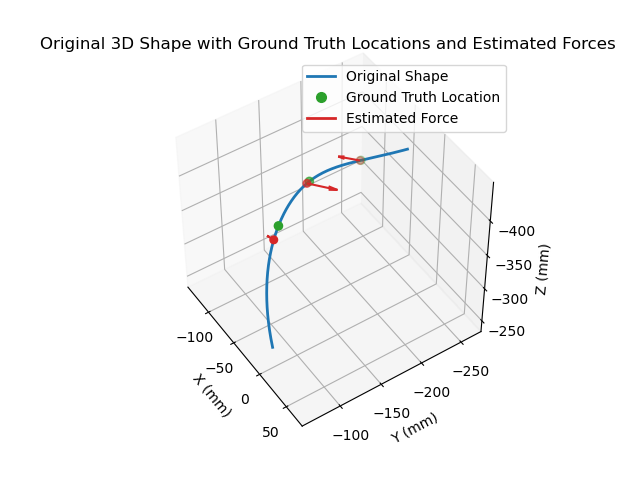
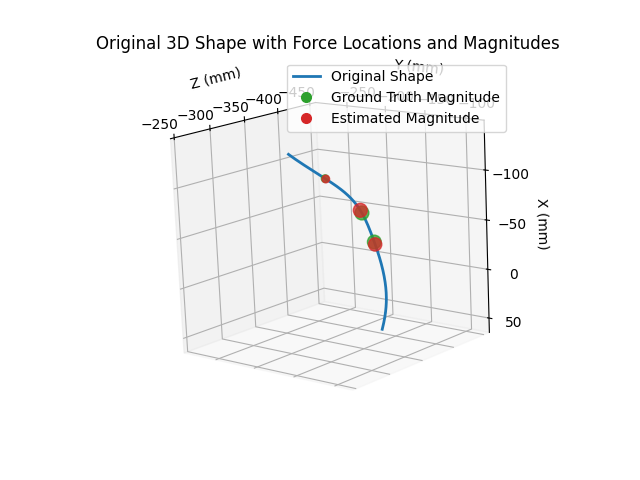
fix force vidualization issue

diff --git a/estimation_multi_force.py b/estimation_multi_force.py
@@ -208,17 +208,20 @@ def _plot_results(
     curvature_axis.set_title("Experimental vs. Model Curvatures")
 
     original_shape = load_experiment_shape(dataset_dir, dataset)
-    ground_truth_locations, _ground_truth_force_vectors = load_experiment_force_vectors(dataset_dir, dataset)
+    ground_truth_locations, ground_truth_force_vectors = load_experiment_force_vectors(dataset_dir, dataset)
     ground_truth_locations = ground_truth_locations + bias
 
     estimated = np.asarray(estimated_forces, dtype=float).reshape(-1, 3)
     estimated = estimated[np.argsort(estimated[:, 0])]
     estimated_force_locations = estimated[:, 0]
     estimated_force_vectors = np.column_stack((estimated[:, 1], estimated[:, 2], np.zeros(len(estimated))))
+    estimated_force_magnitudes = np.linalg.norm(estimated_force_vectors, axis=1)
+    ground_truth_force_magnitudes = np.linalg.norm(ground_truth_force_vectors, axis=1)
 
     ground_truth_force_points = _interpolate_shape_points(original_shape, ground_truth_locations)
     estimated_force_points = _interpolate_shape_points(original_shape, estimated_force_locations)
-    force_scale = _compute_force_scale(original_shape, estimated_force_vectors)
+    ground_truth_marker_sizes = _compute_marker_sizes(ground_truth_force_magnitudes)
+    estimated_marker_sizes = _compute_marker_sizes(estimated_force_magnitudes)
 
     shape_figure = plt.figure()
     shape_axis = shape_figure.add_subplot(111, projection="3d")
@@ -229,40 +232,32 @@ def _plot_results(
         color="tab:blue",
         linewidth=2.0,
     )
-    # Force sensor and FBG center frames are not calibrated to each other,
-    # so ground-truth force directions are intentionally not plotted.
+    # Force directions are intentionally not plotted. The force sensor and FBG
+    # center frames are not calibrated, and the estimated directions are also
+    # not sufficiently aligned. Marker size encodes force magnitude instead.
     if ground_truth_force_points.size:
         shape_axis.scatter(
             ground_truth_force_points[:, 0],
             ground_truth_force_points[:, 1],
             ground_truth_force_points[:, 2],
             color="tab:green",
-            s=35,
+            s=ground_truth_marker_sizes,
+            alpha=0.75,
         )
     if estimated_force_points.size:
-        shape_axis.quiver(
-            estimated_force_points[:, 0],
-            estimated_force_points[:, 1],
-            estimated_force_points[:, 2],
-            estimated_force_vectors[:, 0],
-            estimated_force_vectors[:, 1],
-            estimated_force_vectors[:, 2],
-            length=force_scale,
-            normalize=False,
-            color="tab:red",
-        )
         shape_axis.scatter(
             estimated_force_points[:, 0],
             estimated_force_points[:, 1],
             estimated_force_points[:, 2],
             color="tab:red",
-            s=30,
+            s=estimated_marker_sizes,
+            alpha=0.75,
         )
 
     shape_axis.set_xlabel("X (mm)")
     shape_axis.set_ylabel("Y (mm)")
     shape_axis.set_zlabel("Z (mm)")
-    shape_axis.set_title("Original 3D Shape with Ground Truth Locations and Estimated Forces")
+    shape_axis.set_title("Original 3D Shape with Force Locations and Magnitudes")
     shape_axis.legend(
         handles=[
             Line2D([0], [0], color="tab:blue", linewidth=2.0, label="Original Shape"),
@@ -273,9 +268,17 @@ def _plot_results(
                 linestyle="None",
                 color="tab:green",
                 markersize=7,
-                label="Ground Truth Location",
+                label="Ground Truth Magnitude",
             ),
-            Line2D([0], [0], color="tab:red", linewidth=2.0, label="Estimated Force"),
+            Line2D(
+                [0],
+                [0],
+                marker="o",
+                linestyle="None",
+                color="tab:red",
+                markersize=7,
+                label="Estimated Magnitude",
+            ),
         ]
     )
     _set_axes_equal_3d(
@@ -283,7 +286,6 @@ def _plot_results(
         original_shape,
         ground_truth_force_points,
         estimated_force_points,
-        estimated_force_points + estimated_force_vectors * force_scale,
     )
     plt.show()
 
@@ -305,21 +307,22 @@ def _interpolate_shape_points(shape: np.ndarray, positions: np.ndarray) -> np.nd
     )
 
 
-def _compute_force_scale(shape: np.ndarray, *force_vectors: np.ndarray) -> float:
-    shape = np.asarray(shape, dtype=float)
-    valid_vectors = [np.asarray(v, dtype=float).reshape(-1, 3) for v in force_vectors if np.asarray(v).size]
-    if not valid_vectors:
-        return 1.0
+def _compute_marker_sizes(
+    magnitudes: np.ndarray,
+    min_size: float = 30.0,
+    max_size: float = 100.0,
+) -> np.ndarray:
+    magnitudes = np.asarray(magnitudes, dtype=float).reshape(-1)
+    if magnitudes.size == 0:
+        return np.zeros(0, dtype=float)
 
-    stacked_vectors = np.vstack(valid_vectors)
-    max_force_norm = float(np.max(np.linalg.norm(stacked_vectors, axis=1)))
-    if max_force_norm <= 0.0:
-        return 1.0
+    max_magnitude = float(np.max(magnitudes))
+    min_magnitude = float(np.min(magnitudes))
+    if max_magnitude <= 0.0 or np.isclose(max_magnitude, min_magnitude):
+        return np.full(magnitudes.shape, (min_size + max_size) / 2.0, dtype=float)
 
-    shape_extent = float(np.max(np.ptp(shape, axis=0)))
-    if shape_extent <= 0.0:
-        shape_extent = 1.0
-    return 0.15 * shape_extent / max_force_norm
+    normalized = (magnitudes - min_magnitude) / (max_magnitude - min_magnitude)
+    return min_size + normalized * (max_size - min_size)
 
 
 def _set_axes_equal_3d(ax, *point_sets: np.ndarray) -> None:

diff --git a/README.md b/README.md
@@ -46,10 +46,10 @@ Case prefixes follow the original experiment naming:
 - If `--plot` is enabled, the script shows:
   - curvature comparison
   - the original measured 3D shape
-  - ground-truth force locations as markers. **Ground-truth force direction is not plotted because the coordinate frames of the FBG sensors and force sensors are not calibrated.**
-  - estimated force vectors in 3D
+  - ground-truth force locations as markers, with marker size reflecting force magnitude
+  - estimated force locations as markers, with marker size reflecting force magnitude
 
-Ground-truth force direction is intentionally not plotted in 3D because the force sensor frame and the FBG-center frame are not calibrated to each other.
+Force direction is intentionally not plotted in 3D because the force sensor and FBG-center frames are not calibrated, and the estimated directions are also not sufficiently aligned.
 
 ## Notes
 - The Python script uses `scipy.optimize.minimize(..., method="L-BFGS-B")` for the bounded optimization step.
